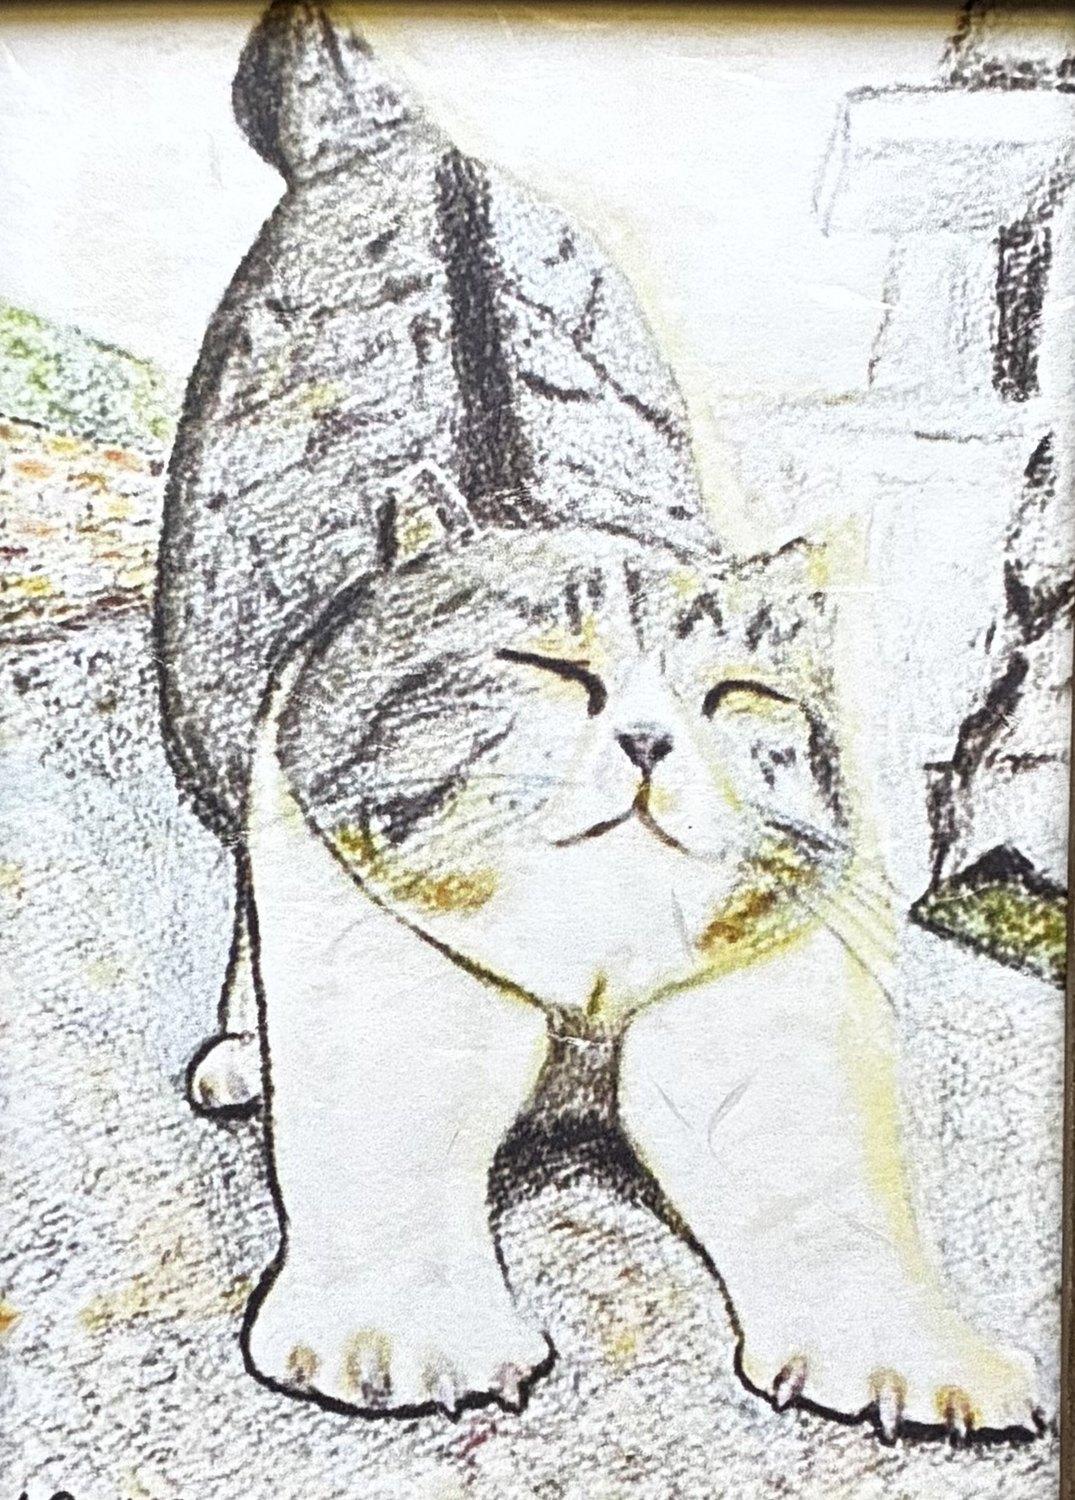
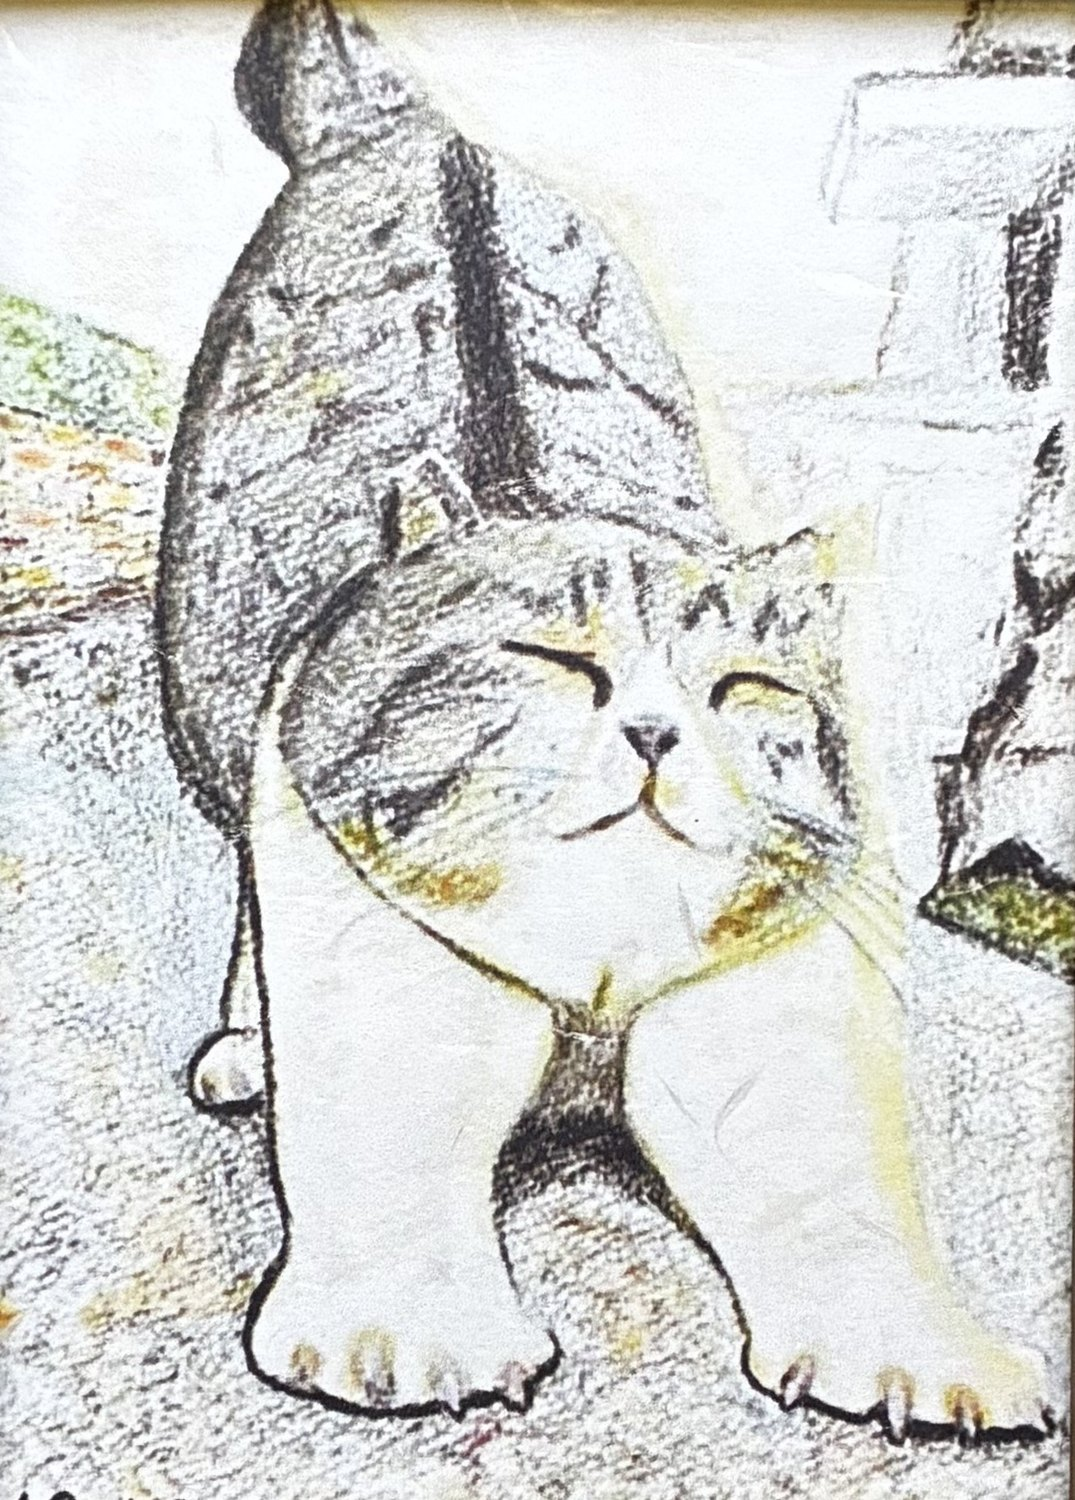
11点の上端・左右に残っていた額縁の線を除去

diff --git a/index.html b/index.html
@@ -668,7 +668,7 @@ footer {
         </figcaption>
       </figure>
       <figure class="card card--yoko" data-code="CAT-04">
-        <button type="button" class="card__img" data-full="images/CAT-04.jpg" data-fulltitle="アメ猫" data-code="CAT-04" aria-label="アメ猫 を大きく見る"><img src="images/CAT-04.jpg" alt="猫の絵「アメ猫」" loading="lazy" width="1500" height="955"></button>
+        <button type="button" class="card__img" data-full="images/CAT-04.jpg" data-fulltitle="アメ猫" data-code="CAT-04" aria-label="アメ猫 を大きく見る"><img src="images/CAT-04.jpg" alt="猫の絵「アメ猫」" loading="lazy" width="1500" height="964"></button>
         <figcaption class="card__body">
           <p class="card__title">アメ猫</p>
           <div class="card__meta">
@@ -716,7 +716,7 @@ footer {
         </figcaption>
       </figure>
       <figure class="card card--yoko" data-code="CAT-07">
-        <button type="button" class="card__img" data-full="images/CAT-07.jpg" data-fulltitle="ごろりんこ" data-code="CAT-07" aria-label="ごろりんこ を大きく見る"><img src="images/CAT-07.jpg" alt="猫の絵「ごろりんこ」" loading="lazy" width="1500" height="987"></button>
+        <button type="button" class="card__img" data-full="images/CAT-07.jpg" data-fulltitle="ごろりんこ" data-code="CAT-07" aria-label="ごろりんこ を大きく見る"><img src="images/CAT-07.jpg" alt="猫の絵「ごろりんこ」" loading="lazy" width="1500" height="997"></button>
         <figcaption class="card__body">
           <p class="card__title">ごろりんこ</p>
           <div class="card__meta">
@@ -764,7 +764,7 @@ footer {
         </figcaption>
       </figure>
       <figure class="card card--yoko" data-code="CAT-10">
-        <button type="button" class="card__img" data-full="images/CAT-10.jpg" data-fulltitle="シャム猫のジャム" data-code="CAT-10" aria-label="シャム猫のジャム を大きく見る"><img src="images/CAT-10.jpg" alt="猫の絵「シャム猫のジャム」" loading="lazy" width="1500" height="1072"></button>
+        <button type="button" class="card__img" data-full="images/CAT-10.jpg" data-fulltitle="シャム猫のジャム" data-code="CAT-10" aria-label="シャム猫のジャム を大きく見る"><img src="images/CAT-10.jpg" alt="猫の絵「シャム猫のジャム」" loading="lazy" width="1500" height="1057"></button>
         <figcaption class="card__body">
           <p class="card__title">シャム猫のジャム</p>
           <div class="card__meta">
@@ -780,7 +780,7 @@ footer {
         </figcaption>
       </figure>
       <figure class="card card--tate" data-code="CAT-11">
-        <button type="button" class="card__img" data-full="images/CAT-11.jpg" data-fulltitle="おやつください" data-code="CAT-11" aria-label="おやつください を大きく見る"><img src="images/CAT-11.jpg" alt="猫の絵「おやつください」" loading="lazy" width="1066" height="1500"></button>
+        <button type="button" class="card__img" data-full="images/CAT-11.jpg" data-fulltitle="おやつください" data-code="CAT-11" aria-label="おやつください を大きく見る"><img src="images/CAT-11.jpg" alt="猫の絵「おやつください」" loading="lazy" width="1076" height="1500"></button>
         <figcaption class="card__body">
           <p class="card__title">おやつください</p>
           <div class="card__meta">
@@ -796,7 +796,7 @@ footer {
         </figcaption>
       </figure>
       <figure class="card card--tate" data-code="CAT-12">
-        <button type="button" class="card__img" data-full="images/CAT-12.jpg" data-fulltitle="小福ちゃん" data-code="CAT-12" aria-label="小福ちゃん を大きく見る"><img src="images/CAT-12.jpg" alt="猫の絵「小福ちゃん」" loading="lazy" width="1146" height="1500"></button>
+        <button type="button" class="card__img" data-full="images/CAT-12.jpg" data-fulltitle="小福ちゃん" data-code="CAT-12" aria-label="小福ちゃん を大きく見る"><img src="images/CAT-12.jpg" alt="猫の絵「小福ちゃん」" loading="lazy" width="1157" height="1500"></button>
         <figcaption class="card__body">
           <p class="card__title">小福ちゃん</p>
           <div class="card__meta">
@@ -860,7 +860,7 @@ footer {
         </figcaption>
       </figure>
       <figure class="card card--tate" data-code="CAT-16">
-        <button type="button" class="card__img" data-full="images/CAT-16.jpg" data-fulltitle="おかえりなさい" data-code="CAT-16" aria-label="おかえりなさい を大きく見る"><img src="images/CAT-16.jpg" alt="猫の絵「おかえりなさい」" loading="lazy" width="928" height="1500"></button>
+        <button type="button" class="card__img" data-full="images/CAT-16.jpg" data-fulltitle="おかえりなさい" data-code="CAT-16" aria-label="おかえりなさい を大きく見る"><img src="images/CAT-16.jpg" alt="猫の絵「おかえりなさい」" loading="lazy" width="937" height="1500"></button>
         <figcaption class="card__body">
           <p class="card__title">おかえりなさい</p>
           <div class="card__meta">
@@ -876,7 +876,7 @@ footer {
         </figcaption>
       </figure>
       <figure class="card card--tate" data-code="CAT-17">
-        <button type="button" class="card__img" data-full="images/CAT-17.jpg" data-fulltitle="ここにいるよ" data-code="CAT-17" aria-label="ここにいるよ を大きく見る"><img src="images/CAT-17.jpg" alt="猫の絵「ここにいるよ」" loading="lazy" width="1136" height="1500"></button>
+        <button type="button" class="card__img" data-full="images/CAT-17.jpg" data-fulltitle="ここにいるよ" data-code="CAT-17" aria-label="ここにいるよ を大きく見る"><img src="images/CAT-17.jpg" alt="猫の絵「ここにいるよ」" loading="lazy" width="1125" height="1500"></button>
         <figcaption class="card__body">
           <p class="card__title">ここにいるよ</p>
           <div class="card__meta">
@@ -908,7 +908,7 @@ footer {
         </figcaption>
       </figure>
       <figure class="card card--tate" data-code="CAT-19">
-        <button type="button" class="card__img" data-full="images/CAT-19.jpg" data-fulltitle="失礼します" data-code="CAT-19" aria-label="失礼します を大きく見る"><img src="images/CAT-19.jpg" alt="猫の絵「失礼します」" loading="lazy" width="1103" height="1500"></button>
+        <button type="button" class="card__img" data-full="images/CAT-19.jpg" data-fulltitle="失礼します" data-code="CAT-19" aria-label="失礼します を大きく見る"><img src="images/CAT-19.jpg" alt="猫の絵「失礼します」" loading="lazy" width="1099" height="1500"></button>
         <figcaption class="card__body">
           <p class="card__title">失礼します</p>
           <div class="card__meta">
@@ -972,7 +972,7 @@ footer {
         </figcaption>
       </figure>
       <figure class="card card--tate" data-code="CAT-23">
-        <button type="button" class="card__img" data-full="images/CAT-23.jpg" data-fulltitle="にゃにかご用？" data-code="CAT-23" aria-label="にゃにかご用？ を大きく見る"><img src="images/CAT-23.jpg" alt="猫の絵「にゃにかご用？」" loading="lazy" width="1108" height="1500"></button>
+        <button type="button" class="card__img" data-full="images/CAT-23.jpg" data-fulltitle="にゃにかご用？" data-code="CAT-23" aria-label="にゃにかご用？ を大きく見る"><img src="images/CAT-23.jpg" alt="猫の絵「にゃにかご用？」" loading="lazy" width="1083" height="1500"></button>
         <figcaption class="card__body">
           <p class="card__title">にゃにかご用？</p>
           <div class="card__meta">
@@ -1091,7 +1091,7 @@ footer {
         </figcaption>
       </figure>
       <figure class="card card--tate" data-code="DOG-07">
-        <button type="button" class="card__img" data-full="images/DOG-07.jpg" data-fulltitle="ごちそうさま" data-code="DOG-07" aria-label="ごちそうさま を大きく見る"><img src="images/DOG-07.jpg" alt="犬の絵「ごちそうさま」" loading="lazy" width="1064" height="1500"></button>
+        <button type="button" class="card__img" data-full="images/DOG-07.jpg" data-fulltitle="ごちそうさま" data-code="DOG-07" aria-label="ごちそうさま を大きく見る"><img src="images/DOG-07.jpg" alt="犬の絵「ごちそうさま」" loading="lazy" width="1065" height="1500"></button>
         <figcaption class="card__body">
           <p class="card__title">ごちそうさま</p>
           <div class="card__meta">
